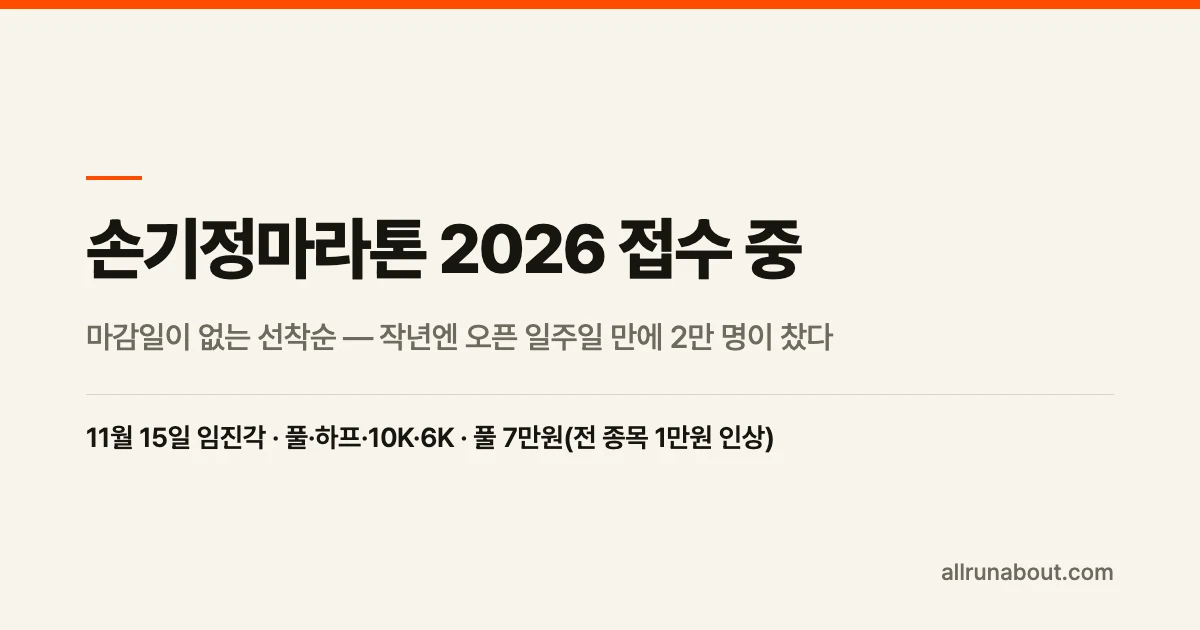
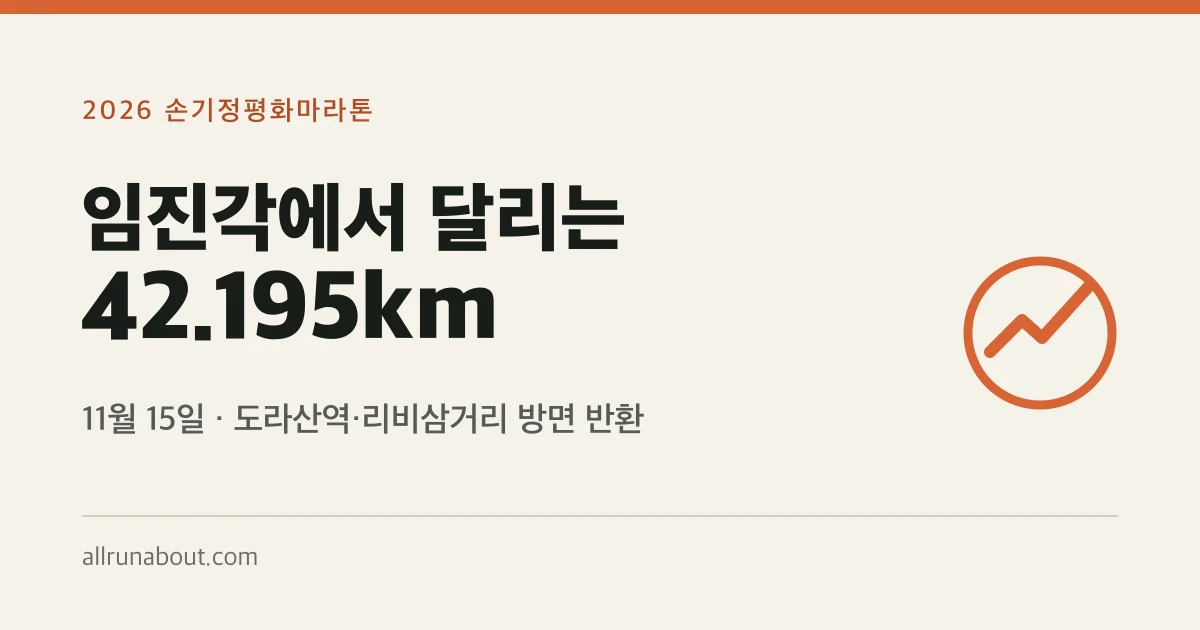
feat(blog): publish Daegu New Year race and refresh Sohn guide

diff --git a/src/lib/data/blog/posts/2026-06.ts b/src/lib/data/blog/posts/2026-06.ts
@@ -2196,23 +2196,19 @@ export const posts_2026_06: BlogPost[] = [
   {
     id: 'sonkeechung-peace-marathon-2026',
     slug: 'sonkeechung-peace-marathon-2026',
-    title: '손기정마라톤 2026 접수 진행 중 — 마감일 없는 선착순, 작년엔 일주일 만에 2만 명 | 임진각 이전·6km 신설·참가비 총정리',
-    description:
-      '2026 손기정평화마라톤(손기정 마라톤) 접수가 8월 9일(일) 오전 9시에 열려 지금도 진행 중입니다 — 마감일이 따로 없는 선착순이라 정원이 차는 순간 끝나고, 2025년엔 오픈 일주일 안에 약 2만 명이 찼습니다. 신청 후 24시간 안에 결제하지 않으면 내역이 삭제되는 점도 함정입니다. 대회는 11월 15일(일) 오전 10시 출발이고, 대회장이 고양 제2자유로에서 임진각(파주)으로 이전했습니다. 6km가 신설돼 4개 종목이 됐고 참가비는 전 종목 1만원 인상(풀 7만·하프 6.5만·10K 6만·6K 5만)됐습니다.',
+    title: '2026 손기정평화마라톤 11월 15일 임진각 출발 | 풀코스 경로·참가비·2차 접수 마감',
+    description: '2026 손기정평화마라톤은 11월 15일 임진각에서 출발합니다. 2차 접수는 11월 2일 오후 5시까지이며 조기 마감될 수 있습니다. 풀코스의 도라산역·리비삼거리 방면 두 반환 구간, 참가비, 제한시간과 3D 코스 미리보기를 정리했습니다.',
     thumbnail: '/images/blog/sonkeechung-peace-marathon-2026.webp',
     author: '산초 에디터',
     publishedAt: '2026-06-13',
-    updatedAt: '2026-10-20',
+    updatedAt: '2026-11-02',
     category: 'news' as const,
-    readingTime: 8,
-    tags: ['손기정평화마라톤', '손기정 마라톤', '손기정마라톤', '임진각 마라톤', '파주 마라톤', '제2자유로', '평화마라톤', '고양 마라톤', '가을 마라톤', '11월 마라톤', '풀코스 마라톤', '손기정'],
+    readingTime: 5,
+    tags: ['손기정평화마라톤', '손기정 마라톤', '손기정마라톤', '임진각 마라톤', '파주 마라톤', '평화마라톤', '11월 마라톤', '풀코스 마라톤', '손기정'],
     event: {
       name: '2026 손기정평화마라톤 (제22회)',
       startDate: '2026-11-15T10:00:00+09:00',
-      location: {
-        name: '임진각',
-        address: '경기도 파주시',
-      },
+      location: { name: '임진각', address: '경기도 파주시' },
       organizer: '손기정기념재단·스포티비뉴스',
       url: 'https://www.sonkeechungrun.com/',
       offers: [
@@ -2223,135 +2219,51 @@ export const posts_2026_06: BlogPost[] = [
       ],
     },
     faqs: [
-      { question: '2026 손기정평화마라톤은 언제 열리나요?', answer: '2026년 11월 15일(일)로 확정됐습니다. 오전 9시 집결, 10시 출발입니다(공식 대회요강 기준, 2026년 10월 20일 확인). 2025년 대회는 11월 16일이었습니다.' },
-      { question: '대회 장소가 임진각으로 바뀌었나요?', answer: '네. 2025년까지는 고양종합운동장에서 출발해 제2자유로를 달렸지만, 2026 대회요강은 대회장을 임진각(경기 파주)으로 공지했습니다. 2025년 대회 때 "2026년은 임진각에서 열어, 임진각~개성을 달리는 남북평화마라톤으로 발전하는 출발점으로 삼겠다"고 예고된 이전입니다.' },
-      { question: '접수는 언제 시작하나요?', answer: '2026년 8월 9일(일) 오전 9시에 이미 열렸습니다. 공식 대회요강에 "8월 9일 09:00 ~ 선착순 마감"으로 공지돼 있어 마감 날짜가 따로 없고, 정원이 차면 그대로 끝납니다. 2025년에는 9월 13일 오후 4시에 열려 약 2만 명 정원이 일주일 안에 찼습니다. 접수 후 24시간 내 미결제 시 신청이 자동 삭제되니 결제까지 한 번에 끝내세요.' },
-      { question: '종목과 참가비는 어떻게 되나요?', answer: '2026년부터 풀코스·하프·10km에 6km가 신설돼 4개 종목입니다. 참가비는 풀 70,000원, 하프 65,000원, 10km 60,000원, 6km 50,000원으로 전 종목이 2025년보다 1만원 올랐습니다. 제한시간은 풀 5시간, 하프 3시간, 10km 1시간 30분, 6km 1시간입니다.' },
-      { question: '제2자유로는 이제 못 달리나요?', answer: '2026 코스 상세는 공식 홈페이지에서 아직 "준비중"입니다. 대회장이 임진각으로 옮겨진 만큼 2025년까지의 고양 제2자유로 코스와는 달라질 가능성이 높지만, 확정 코스는 공식 공개를 기다려야 합니다. 공개되면 이 글을 갱신하겠습니다.' },
-      { question: '대회장까지 어떻게 가나요?', answer: '공식 교통·주차 안내가 아직 게시되지 않았습니다. 임진각 일대는 대회일 혼잡이 예상되니 공식 안내가 뜨면 확인하세요. 배번·기념품·칩은 11월 9일 우체국 택배로 사전 발송되므로 당일 현장 수령 부담은 적습니다.' },
+      { question: '2026 손기정평화마라톤은 언제 어디서 열리나요?', answer: '11월 15일(일) 임진각 평화누리공원 민통선 일대에서 열립니다. 오전 9시 집결, 10시 출발입니다.' },
+      { question: '2차 접수는 언제까지인가요?', answer: '공식 요강의 2차 접수 기간은 10월 28일 오전 9시부터 11월 2일 오후 5시까지입니다. 접수와 결제를 완료한 사람을 선착순으로 정하고, 정원 도달 시 일찍 끝날 수 있습니다. 이후 추가 접수 여부는 공식 홈페이지에서 확인하세요.' },
+      { question: '풀코스 경로가 공개됐나요?', answer: '네. 공식 풀코스 안내는 임진각에서 출발해 마정교차로·통일대교를 지나 도라산역 방면에서 1차 반환하고, 리비삼거리 방면에서 2차 반환한 뒤 임진각으로 돌아오는 경로를 제시합니다. 당일 코스는 바뀔 수 있습니다.' },
+      { question: '참가비와 제한시간은 얼마인가요?', answer: '풀코스 70,000원·5시간, 하프 65,000원·3시간, 10km 60,000원·1시간 30분, 6km 슬로우런 50,000원·1시간입니다.' },
     ],
     content: `
 <div class="tldr">
   <span class="tldr-label">3줄 요약</span>
   <ul>
-    <li><strong>2026 제22회가 확정됐습니다 — 11월 15일(일) 오전 10시 출발, 대회장은 임진각(파주)</strong>. 2025년까지의 고양 제2자유로에서 옮겨, "임진각~개성 남북평화마라톤"으로 발전시키겠다는 구상의 첫걸음입니다.</li>
-    <li><strong>6km 종목 신설로 4개 종목</strong>(풀·하프·10km·6km), 참가비는 전 종목 1만원 인상(풀 7만·하프 6.5만·10K 6만·6K 5만). 배번·기념품은 11/9 우체국 택배 사전 발송입니다.</li>
-    <li><strong>접수가 8월 9일(일) 오전 9시 열렸습니다 — 마감일 없는 선착순</strong>. 2025년엔 9/13 오픈 후 약 2만 명이 일주일 만에 찬 대회라, 종목이 정해졌다면 미루지 않는 편이 안전합니다.</li>
+    <li><strong>11월 15일(일) 오전 10시, 임진각 출발.</strong> 풀·하프·10km·6km 슬로우런 네 종목입니다.</li>
+    <li><strong>2차 접수는 11월 2일 오후 5시까지.</strong> 결제 완료 순서로 선착순이며 정원이 차면 일찍 마감될 수 있습니다.</li>
+    <li><strong>풀코스 경로가 공개됐습니다.</strong> 도라산역 방면과 리비삼거리 방면에서 두 번 반환합니다. <a href="/marathon/sonkeechung-peace-marathon-2026/preview">3D 코스 미리보기</a>에서 구간 흐름을 살펴볼 수 있습니다.</li>
   </ul>
 </div>
 
-<div class="callout warning">
-  <span class="callout-icon">📢</span>
-  <div class="callout-body">
-    <p class="callout-title">8/10 갱신 — 접수 시작됨</p>
-    <p>공식 대회요강의 접수기간이 <strong>"8월 9일 09:00 ~ 선착순 마감"</strong>으로 확정 게시됐습니다(2026-08-10 확인). 예고대로 작년(9/13)보다 <strong>한 달가량 빨라졌고</strong>, 마감 날짜가 따로 없어 정원이 차는 순간 끝납니다. 신청은 <a href="https://www.sonkeechungrun.com/entryperson" target="_blank" rel="noopener">공식 개인참가신청 페이지</a>에서 하고, <strong>접수 후 24시간 안에 결제</strong>하지 않으면 신청내역이 삭제됩니다.</p>
-  </div>
-</div>
+<p>올해 손기정평화마라톤을 준비한다면 출발 장소와 코스를 다시 봐야 합니다. 2025년까지 달렸던 고양 제2자유로에서 <strong>파주 임진각</strong>으로 대회장이 바뀌었고, 공식 풀코스 경로도 10월에 공개됐습니다.</p>
 
-<div class="callout info">
-  <span class="callout-icon">🕊</span>
-  <div class="callout-body">
-    <p class="callout-title">기록보다 의미가 먼저인 대회</p>
-    <p>1936년 베를린올림픽 마라톤에서 금메달을 딴 <strong>손기정 선생</strong>. 일장기를 달고 달려야 했던 그의 이야기를 기억하며, 후배 러너들이 그의 이름으로 달리는 대회입니다. 평소 차가 달리는 길을 사람이 달리고, 북녘으로 뻗은 도로를 향해 <strong>평화와 통일</strong>의 메시지를 담아 달리죠. 기록도 노릴 수 있지만, 의미를 찾는 러너에게 특별한 대회입니다.</p>
-  </div>
-</div>
-
-<h2>어떤 대회인가 — 손기정, 그리고 평화</h2>
-
-<p>손기정평화마라톤은 <strong>손기정기념재단</strong>이 주최하는 가을 마라톤으로, 2005년 제1회를 시작해 2026년이면 제22회가 됩니다. 단순한 레이스가 아니라 <strong>손기정 선생의 항일·애국 정신을 기리고 한반도 평화·통일을 염원</strong>하는 테마가 핵심이에요. 2025년 슬로건이 광복 80주년과 맞물린 "광복은 자유다"였던 것도 같은 맥락입니다.</p>
-
-<p>국내 마스터즈 마라톤 중에서도 규모가 큰 편으로, <strong>약 2만 명</strong>이 참가합니다. 그만큼 인기가 높아 접수가 빠르게 마감되는 대회이기도 합니다.</p>
-
-<h2>2026, 임진각으로 — 무엇이 바뀌나</h2>
-
+<h2>접수와 참가비</h2>
+<p>공식 대회요강에 따르면 1차 접수는 10월 27일 끝났고, <strong>2차 접수는 10월 28일 오전 9시부터 11월 2일 오후 5시까지</strong>입니다. 접수와 결제를 모두 마친 사람을 선착순으로 세며, 정원이 차면 예정 시각보다 빨리 끝날 수 있습니다. 접수 여부와 이후 추가 모집은 <a href="https://www.sonkeechungrun.com/info1" target="_blank" rel="noopener noreferrer">공식 대회요강</a>에서 확인하세요.</p>
 <table>
-  <thead>
-    <tr><th>항목</th><th>2025 (제21회)</th><th>2026 (제22회, 확정)</th></tr>
-  </thead>
+  <thead><tr><th>종목</th><th>참가비</th><th>제한시간</th></tr></thead>
   <tbody>
-    <tr><td>대회일</td><td>11/16(일)</td><td><strong>11/15(일)</strong> 집결 9:00 · 출발 10:00</td></tr>
-    <tr><td>대회장</td><td>고양종합운동장 (제2자유로)</td><td><strong>임진각 (경기 파주)</strong></td></tr>
-    <tr><td>종목</td><td>풀·하프·10K</td><td>풀·하프·10K + <strong>6km 신설</strong></td></tr>
-    <tr><td>참가비</td><td>6만 / 5.5만 / 5만</td><td><strong>7만 / 6.5만 / 6만 / 5만(6K)</strong></td></tr>
-    <tr><td>접수</td><td>9/13 16시 오픈 → 일주일 내 마감</td><td><strong>8월 중 공지 예정</strong></td></tr>
+    <tr><td>풀코스</td><td>70,000원</td><td>5시간</td></tr>
+    <tr><td>하프</td><td>65,000원</td><td>3시간</td></tr>
+    <tr><td>10km</td><td>60,000원</td><td>1시간 30분</td></tr>
+    <tr><td>6km 슬로우런</td><td>50,000원</td><td>1시간</td></tr>
   </tbody>
 </table>
 
-<p>가장 큰 변화는 장소입니다. 2025년 대회 당시 주최 측은 <strong>"2026년 대회는 임진각에서 열어, 임진각~개성을 달리는 손기정남북평화마라톤으로 발전하는 출발점으로 삼겠다"</strong>고 예고했고, 실제로 2026 대회요강이 대회장을 임진각으로 공지하며 그 구상이 현실이 됐습니다. 분단의 상징이자 민간인이 갈 수 있는 북녘과 가장 가까운 땅에서, 일장기를 달고 달려야 했던 마라토너의 이름으로 달리는 셈이라 대회의 평화 서사는 오히려 더 짙어졌습니다.</p>
-
-<h2>그럼 제2자유로는? — 2025년까지의 정체성</h2>
-
-<p>지금까지 이 대회의 정체성은 <strong>제2자유로</strong>에 있었습니다. 제2자유로는 평소 보행·자전거가 금지된 <strong>자동차 전용도로</strong>인데, 손기정평화마라톤은 대회 당일에만 이 도로를 러너에게 통째로 내어주는 <strong>국내 유일 대회</strong>였어요.</p>
-
+<h2>풀코스: 북쪽으로 갔다가 두 번 반환</h2>
+<p><a href="https://www.sonkeechungrun.com/full" target="_blank" rel="noopener noreferrer">공식 풀코스 안내</a>의 순서는 <strong>임진각 → 마정교차로 → 통일대교 → 도라산역 방면 1차 반환 → 마정교차로 → 여우고개사거리 → 37번국도·리비삼거리 방면 2차 반환 → 37번국도 맞은편 도로 → 여우고개사거리 → 마정교차로 → 임진각</strong>입니다. 주최 측은 코스가 변경될 수 있다고 밝힙니다.</p>
+<p>지도에서 반환점을 두 개 먼저 찾아두면 레이스 흐름을 이해하기 쉽습니다. 첫 반환 뒤 마정교차로를 다시 지나고, 여우고개사거리에서 37번국도 구간으로 들어갑니다. 코스도에는 구간별 공식 거리와 고도 수치가 없으므로 지도의 산 그림만 보고 오르막 길이를 단정하지 마세요.</p>
 <div class="callout info">
-  <span class="callout-icon">🛣</span>
+  <span class="callout-icon">🗺</span>
   <div class="callout-body">
-    <p class="callout-title">2026 코스는 아직 "준비중"</p>
-    <p>공식 홈페이지의 풀·하프·10km 코스 페이지는 현재 <strong>준비중</strong>입니다. 임진각 출발로 바뀐 만큼 제2자유로 왕복 코스가 유지될지, 자유로·평화누리 일대의 새 코스가 될지는 공식 공개를 기다려야 합니다. 코스가 공개되면 이 글을 갱신하겠습니다. 아래 제2자유로 설명은 2025년까지의 코스 기준입니다.</p>
+    <p class="callout-title">달리기 전에 코스를 살펴보고 싶다면</p>
+    <p><a href="/marathon/sonkeechung-peace-marathon-2026/preview">손기정평화마라톤 3D 코스 미리보기</a>에서 반환 지점, 참고 고도, 목표 시간별 페이스와 보급 예시를 볼 수 있습니다. 지형·거리 수치는 개인 제작 GPX를 바탕으로 한 참고값입니다. 실제 반환 위치와 차로는 대회 당일 안내를 따르세요.</p>
   </div>
 </div>
 
-<ul>
-  <li><strong>직선·평지 기록 코스</strong> — 신호도, 급격한 꺾임도 없는 곧게 뻗은 도로라 페이스를 일정하게 유지하기 좋습니다. PB(개인 최고기록)를 노리는 러너에게 유리한 코스죠.</li>
-  <li><strong>고양종합운동장 출발 왕복</strong> — 풀코스는 현천IC·능곡IC를 반환점으로 도는 구조입니다. 25km 부근이 페이스 관리의 분기점입니다.</li>
-  <li><strong>평화·통일의 상징</strong> — 북한 방향으로 뻗은 도로를 달린다는 점에서, 이 코스 자체가 대회의 메시지를 담고 있습니다.</li>
-</ul>
+<h2>왜 손기정평화마라톤인가</h2>
+<p>1936년 베를린올림픽 마라톤 우승자 손기정 선생의 이름을 기억하며 달리는 대회입니다. 올해 대회일인 <strong>11월 15일은 선생의 기일</strong>이기도 합니다. 임진각과 민통선 일대를 달리는 새 코스는 대회의 평화 메시지를 러너가 직접 체감할 장소입니다.</p>
+<p>올해 처음 추가된 6km 슬로우런을 포함해 네 종목이 열립니다. 레이스 전에는 <a href="/marathon/sonkeechung-peace-marathon-2026">대회 캘린더 안내</a>와 공식 교통·참가자 공지를 다시 확인하세요.</p>
 
-<p>단, 11월 개최라 <strong>기온이 낮고 강변 바람이 변수</strong>입니다. 출발 전 체온 유지와 바람 대비(아암슬리브·바람막이)를 챙기는 게 좋습니다.</p>
-
-<h2>종목·참가비·제한시간 (2026 확정)</h2>
-
-<table>
-  <thead>
-    <tr><th>종목</th><th>참가비</th><th>제한시간</th><th>참가자격</th></tr>
-  </thead>
-  <tbody>
-    <tr><td><strong>풀코스</strong></td><td>70,000원</td><td>5시간</td><td>만 18세 이상</td></tr>
-    <tr><td><strong>하프</strong></td><td>65,000원</td><td>3시간</td><td>제한 없음</td></tr>
-    <tr><td><strong>10km</strong></td><td>60,000원</td><td>1시간 30분</td><td>제한 없음</td></tr>
-    <tr><td><strong>6km</strong> <em>(신설)</em></td><td>50,000원</td><td>1시간</td><td>제한 없음</td></tr>
-  </tbody>
-</table>
-
-<p>전 종목이 2025년보다 1만원씩 올랐고, 가족·입문 러너를 겨냥한 <strong>6km가 새로 생겼습니다</strong>. 출발은 오전 10시(집결 9:00), 결제는 신용카드·가상계좌이며, 대한육상연맹 2024~2026 등록 엘리트 선수는 시상에서 제외됩니다.</p>
-
-<h2>접수 — 8월 9일 오픈, 마감일 없는 선착순</h2>
-
-<p>손기정평화마라톤의 가장 큰 주의점은 <strong>속도</strong>입니다. 2025년에는 <strong>9월 13일 오후 4시 접수 오픈 → 약 2만 명 정원이 일주일 안에 마감</strong>됐어요. 2026년은 예고대로 앞당겨져 <strong>8월 9일(일) 오전 9시</strong>에 열렸고, 공식 대회요강에 마감일 대신 <strong>"선착순 마감"</strong>이라고만 적혀 있습니다. 달력을 보며 기다릴 마감일이 없다는 뜻이라, 뛸 종목이 정해졌다면 지금 넣는 게 안전합니다.</p>
-
-<p><strong>접수 전 체크리스트</strong>:</p>
-
-<ul>
-  <li><strong>레이스플랜 계정부터</strong> — 접수처인 공식 홈페이지(<a href="https://www.sonkeechungrun.com/" target="_blank" rel="noopener">sonkeechungrun.com</a>)는 레이스플랜 계정으로 로그인합니다. 계정이 없다면 가입이 첫 단계입니다.</li>
-  <li><strong>필수 입력값 준비</strong> — 성명·생년월일·휴대폰·코스·기념품 사이즈·주소를 요구합니다. 기념품 사이즈를 미리 정해두면 접수가 빨라집니다.</li>
-  <li><strong>결제까지 한 번에</strong> — 접수 후 <strong>24시간 내 미결제 시 신청 내역이 자동 삭제</strong>됩니다. 신용카드나 가상계좌로 그 자리에서 끝내세요.</li>
-  <li><strong>단체(2인 이상)도 홈페이지 직접 접수</strong> — 별도 단체 양식은 접수 종료 후에만 제공됩니다.</li>
-</ul>
-
-<div class="callout info">
-  <span class="callout-icon">📅</span>
-  <div class="callout-body">
-    <p class="callout-title">코스가 공개되면 이 글을 갱신합니다</p>
-    <p>접수는 열렸지만 <strong>코스 상세는 여전히 공식 "준비중"</strong>입니다(2026-08-10 확인). 코스와 교통안내가 공개되는 대로 이 글과 <a href="/marathon/sonkeechung-peace-marathon-2026">손기정평화마라톤 캘린더 페이지</a>를 갱신하겠습니다. 최신 확인은 <a href="https://www.sonkeechungrun.com/" target="_blank" rel="noopener">공식 홈페이지</a> 공지사항에서 하세요.</p>
-  </div>
-</div>
-
-<h2>교통·준비</h2>
-
-<ul>
-  <li><strong>교통·주차 안내는 준비중</strong> — 임진각으로 장소가 바뀐 만큼 공식 교통안내·교통통제 공지를 기다려야 합니다. 임진각 평화누리 일대는 대회일 혼잡이 예상되니 공지가 뜨면 확인하세요.</li>
-  <li><strong>배번·기념품은 사전 택배</strong> — 마라톤 패키지(배번·칩·기념품)가 <strong>11월 9일 우체국 택배로 발송</strong>됩니다. 당일 현장 수령 줄을 설 필요가 없습니다.</li>
-  <li><strong>11월 추위 대비</strong> — 출발 대기 시간이 길 수 있어 버리는 옷·우의로 체온을 유지하세요. 임진강변 바람이 변수입니다.</li>
-</ul>
-
-<h2>한 걸음 더</h2>
-
-<ul>
-  <li>🗓 가을 대회 일정 한눈에 → <a href="/marathon">마라톤 캘린더</a> · <a href="/blog/2026-second-half-marathon-schedule-korea">2026 하반기 마라톤 완전정복</a></li>
-  <li>🏅 손기정과 한국 마라톤의 뿌리 → <a href="/blog/seoul-marathon-100-years-history-1931-2030">서울마라톤 100년의 길(손기정·일장기 말소사건)</a></li>
-</ul>
-
-<p style="font-size:0.85em;color:#64748b;margin-top:2em;">※ 2026-07-29 갱신: 대회일(11/15)·장소(임진각)·종목(6km 신설)·참가비·제한시간·결제 방식·택배 발송일은 손기정평화마라톤 공식 홈페이지 대회요강(sonkeechungrun.com, 2026-07-29 확인) 기준 확정 정보입니다. 임진각 이전 배경("남북평화마라톤 발전 구상")은 2025-09 스포티비뉴스·쿠키뉴스 보도 기준. 2026 코스 상세와 접수 오픈 일시는 공식 "준비중/8월 중 공지 예정" 상태로, 공개 시 갱신합니다. 원문 발행 2026-06-13.</p>
+<p><small>출처: <a href="https://www.sonkeechungrun.com/info1" target="_blank" rel="noopener noreferrer">손기정평화마라톤 공식 대회요강</a>(일시·접수·참가비·제한시간), <a href="https://www.sonkeechungrun.com/full" target="_blank" rel="noopener noreferrer">공식 풀코스</a>(경유지·변경 가능성). 2026년 11월 2일 확인. 원문 2026년 6월 13일 발행.</small></p>
 `,
   },
   {

diff --git a/src/lib/data/blog/posts/2026-11.ts b/src/lib/data/blog/posts/2026-11.ts
@@ -2,6 +2,76 @@ import type { BlogPost } from '@/types/blog';
 
 export const posts_2026_11: BlogPost[] = [
   {
+    id: 'daegu-new-year-naked-marathon-2027',
+    slug: 'daegu-new-year-naked-marathon-2027',
+    title: '2027 대구 전국새해 알몸마라톤 접수 | 1월 3일 5km·10km, 복장 규정과 참가비',
+    description: '제19회 전국새해 알몸마라톤이 2027년 1월 3일 대구육상진흥센터 앞에서 열립니다. 10km 5만원, 5km 일반 4만원·학생 2만원. 12월 10일까지 입금 순 선착순 2,000명 접수이며 시상 대상 복장 규정과 현장 수령 일정을 확인하세요.',
+    thumbnail: '/images/blog/daegu-new-year-naked-marathon-2027.webp',
+    author: '산초 에디터',
+    publishedAt: '2026-11-02',
+    category: 'news',
+    readingTime: 4,
+    tags: ['전국새해 알몸마라톤', '대구 알몸마라톤', '2027 마라톤', '새해 마라톤', '대구 러닝 대회', '10km 대회', '5km 대회'],
+    event: {
+      name: '제19회 전국새해 알몸마라톤대회',
+      startDate: '2027-01-03T10:00:00+09:00',
+      location: { name: '대구육상진흥센터 앞', address: '대구광역시 수성구 미술관로 88' },
+      organizer: '대구광역시육상연맹',
+      url: 'https://r.dgrunner.co.kr:9023/',
+      offers: [
+        { name: '10km', priceKrw: 50000, url: 'https://r.dgrunner.co.kr:9023/' },
+        { name: '5km 일반', priceKrw: 40000, url: 'https://r.dgrunner.co.kr:9023/' },
+        { name: '5km 학생', priceKrw: 20000, url: 'https://r.dgrunner.co.kr:9023/' },
+      ],
+    },
+    faqs: [
+      { question: '2027 전국새해 알몸마라톤은 언제 열리나요?', answer: '2027년 1월 3일(일) 대구육상진흥센터 앞에서 열립니다. 10km는 오전 10시, 5km 학생부는 10시 5분, 5km 일반부는 10시 10분 출발입니다.' },
+      { question: '접수 마감일과 참가비는 얼마인가요?', answer: '공식 요강에는 2026년 10월 28일부터 12월 10일까지 선착순 2,000명으로 안내돼 있습니다. 종목별 입금 순서이며, 10km 50,000원·5km 일반 40,000원·5km 학생 20,000원입니다. 정원이 차면 접수 기간 중에도 끝날 수 있습니다.' },
+      { question: '정말 알몸으로 달려야 하나요?', answer: '공식 요강의 경기 복장 규정은 남성 상의 탈의, 여성 탑 복장, 남녀 모두 반바지입니다. 복장 위반 시 입상에서 제외된다고 적혀 있습니다. 시상에 참가하지 않는 러너에게도 같은 규정을 적용하는지는 2027년 요강에 명시돼 있지 않아 주최 측에 확인해야 합니다.' },
+      { question: '배번호와 기념품은 어디서 받나요?', answer: '대회 당일 오전 7시 30분부터 9시 20분까지 현장에서 배번호와 기념품을 배부한다고 공식 일정표에 적혀 있습니다.' },
+    ],
+    content: `
+<div class="tldr">
+  <span class="tldr-label">3줄 요약</span>
+  <ul>
+    <li><strong>2027년 1월 3일(일) 대구에서 5km·10km를 달립니다.</strong> 출발 장소는 대구육상진흥센터 앞입니다.</li>
+    <li><strong>접수는 12월 10일까지, 입금 순 선착순 2,000명입니다.</strong> 10km 5만원, 5km 일반 4만원·학생 2만원입니다.</li>
+    <li><strong>시상 대상 복장 규정을 확인하세요.</strong> 남성 상의 탈의·여성 탑·남녀 반바지이며, 위반하면 입상에서 제외됩니다.</li>
+  </ul>
+</div>
+
+<p>새해 첫 대회를 찾는다면 날짜부터 눈에 들어옵니다. <strong>제19회 전국새해 알몸마라톤</strong>은 2027년 1월 3일 일요일, 대구육상진흥센터 앞에서 열립니다. 이름 때문에 망설여질 수 있지만, 공식 요강의 복장 규정은 말 그대로 옷을 전부 벗는 방식이 아닙니다.</p>
+
+<h2>종목·참가비·출발 시각</h2>
+<table>
+  <thead><tr><th>종목</th><th>참가비</th><th>정원</th><th>출발</th></tr></thead>
+  <tbody>
+    <tr><td>10km</td><td>50,000원</td><td>1,200명</td><td>10:00</td></tr>
+    <tr><td>5km 일반</td><td>40,000원</td><td>700명</td><td>10:10</td></tr>
+    <tr><td>5km 학생</td><td>20,000원</td><td>100명</td><td>10:05</td></tr>
+  </tbody>
+</table>
+<p>제한시간은 10km 1시간 30분, 5km 1시간입니다. 세 종목 모두 기록칩과 모바일 기록증이 안내돼 있습니다. 배번호와 기념티는 <strong>대회 당일 07:30~09:20 현장 배부</strong>이므로 출발 직전에 도착하면 수령이 빠듯할 수 있습니다.</p>
+
+<h2>접수는 입금 순 선착순</h2>
+<p><a href="https://r.dgrunner.co.kr:9023/run/9000.asp?T=1" target="_blank" rel="noopener noreferrer">공식 대회요강</a>의 접수 기간은 <strong>2026년 10월 28일~12월 10일</strong>입니다. 전체 2,000명을 종목별 입금 순서로 받습니다. 신청만 하고 결제를 미루면 자리가 확정되지 않으니, 신청 뒤 입금·신청 확인까지 살펴보세요. 현재 남은 자리는 공식 페이지에서 확인해야 합니다.</p>
+<p>환불은 접수 마감 전 신청하면 참가비의 10%를 공제하고, 마감 뒤에는 불가하다고 요강에 적혀 있습니다. 날씨나 재해 때문에 행사가 연기·취소될 때의 규정도 있으니 신청 전 원문을 읽어보는 편이 좋습니다.</p>
+
+<h2>‘알몸’ 복장은 어디까지인가</h2>
+<p>공식 경기 규정에는 <strong>남성 상의 탈의, 여성 탑 복장, 남녀 모두 반바지</strong>라고 쓰여 있습니다. 복장을 지키지 않으면 <strong>입상에서 제외</strong>한다는 조건입니다. 이 문구만으로 시상에 도전하지 않는 참가자의 자유복장 가능 여부까지 단정할 수는 없습니다. 자신의 복장에 맞춰 참가하려면 신청 전에 주최 측에 확인하세요.</p>
+<p>1월 초 야외 대회인 만큼 출발 전 대기 시간과 완주 직후 갈아입을 옷도 고려해야 합니다. 특히 배번호를 현장에서 받아야 하므로 이동 계획에 수령 시간을 넣어두세요.</p>
+
+<h2>신청 전 확인할 두 가지</h2>
+<ul>
+  <li><strong>정원:</strong> 공식 요강의 마감일은 12월 10일이지만, 입금 순 2,000명을 채우면 먼저 끝날 수 있습니다.</li>
+  <li><strong>코스:</strong> 공식 홈페이지의 <a href="https://r.dgrunner.co.kr:9023/run/9002.asp?T=1" target="_blank" rel="noopener noreferrer">10km 코스도</a>는 확인할 수 있습니다. 5km 세부 경로와 실제 고도는 이 글에서 확인하지 못했으므로 코스도만 보고 경사를 추정하지 마세요.</li>
+</ul>
+<p>다른 겨울 대회와 날짜를 비교하려면 <a href="/marathon">마라톤 캘린더</a>를 함께 보세요.</p>
+
+<p><small>출처: <a href="https://r.dgrunner.co.kr:9023/run/9000.asp?T=1" target="_blank" rel="noopener noreferrer">대구광역시육상연맹 제19회 전국새해 알몸마라톤 공식 대회요강</a>(일정·비용·정원·복장·환불·현장 배부), <a href="https://r.dgrunner.co.kr:9023/run/9002.asp?T=1" target="_blank" rel="noopener noreferrer">공식 10km 코스도</a>. 2026년 11월 2일 확인. 잔여 정원과 시상 비대상자의 복장 적용 여부는 확인되지 않았습니다.</small></p>
+`,
+  },
+  {
     id: 'asics-tenka-pack-korea-release-2026',
     slug: 'asics-tenka-pack-korea-release-2026',
     title: '아식스 텐카 팩 11월 2일 발매 | 슈퍼블라스트 3·메가블라스트 가격과 구매처',

diff --git a/src/lib/data/marathon/november.ts b/src/lib/data/marathon/november.ts
@@ -403,7 +403,8 @@ export const novemberEvents: MarathonEvent[] = [
     isMajor: true,
     website: 'https://www.sonkeechungrun.com',
     registrationStart: '2026-08-09',
-    registrationNote: '선착순 마감시까지 — 마감일 미고지 (접수 후 24시간 내 미결제 시 신청 삭제)',
+    registrationEnd: '2026-11-02',
+    registrationNote: '2차 접수는 11월 2일(월) 17:00까지. 접수와 결제 완료 순서로 선착순이며 정원 도달 시 조기 마감될 수 있습니다. 이후 추가 접수 여부는 공식 홈페이지에서 확인하세요(2026-11-02 공식 대회요강 확인).',
     raceKit: {
       items: [
         '스파이더 퍼포먼스 러닝 윈드 자켓(그레이, 85~110 — 베를린올림픽 우승 90주년 기념 아트워크)',
@@ -413,14 +414,14 @@ export const novemberEvents: MarathonEvent[] = [
       verifiedAt: '2026-10-20',
       images: [{ src: '/images/marathon/sonkeechung-peace-marathon-2026/kit-1.webp', alt: '2026 손기정평화마라톤 공식 기념품 — 스파이더 러닝 윈드 자켓' }],
     },
-    lastVerified: '2026-10-20',
+    lastVerified: '2026-11-02',
     description:
-      '8월 9일(일) 오전 9시에 접수가 열려 마감일 없이 선착순으로 받고 있습니다 — 2025년엔 오픈 일주일 안에 약 2만 명이 찼습니다. 신청 후 24시간 안에 결제하지 않으면 내역이 삭제됩니다. 환불 신청은 공식 유의사항 기준 10월 20일(화) 오후 5시까지이고, 접수 마감 이후에는 어떤 경우에도 환불되지 않습니다(2026-10-20 공식 유의사항 확인). 올해 가장 큰 변화는 대회장 이전으로, 고양 제2자유로에서 임진각 민통선 일대(파주)로 옮깁니다("임진각~개성 남북평화마라톤으로 발전하는 출발점" 구상). 6km 슬로우런이 신설돼 종목은 4개가 됐고(슬로우런협회 공동 운영), 참가비는 전 종목 1만원 인상됐습니다(풀 7만·하프 6.5만·10K 6만·6K 5만). 1936 베를린올림픽 금메달리스트 손기정 선생을 기리는 평화·통일 테마 대회로 2005년 제1회, 올해가 제22회입니다. 기념품·배번호 패키지는 11월 9~10일 우체국택배로 순차 발송되며 택배비는 주최측 부담입니다. 기념품 사이즈는 참가신청/조회에서 "수정·상세"로 직접 바꿀 수 있습니다. 코스 상세는 공식 준비중 — 2025년까지의 제2자유로 코스와 달라질 수 있습니다(공식 대회요강·유의사항 2026-08-31 확인).',
+      '11월 15일(일) 오전 10시 임진각 평화누리공원에서 출발하는 제22회 손기정평화마라톤입니다. 2차 접수는 10월 28일 오전 9시부터 11월 2일 오후 5시까지이며, 결제 완료 기준 선착순으로 정원이 차면 조기 마감될 수 있습니다. 올해 대회장은 고양 제2자유로에서 파주 임진각으로 옮겨졌습니다. 공식 풀코스는 임진각에서 마정교차로·통일대교를 지나 도라산역 방면에서 1차 반환하고, 여우고개사거리를 거쳐 37번국도 리비삼거리 방면에서 2차 반환한 뒤 임진각으로 돌아옵니다. 종목은 풀·하프·10km·6km 슬로우런이며 참가비는 각각 70,000원·65,000원·60,000원·50,000원입니다. 코스는 변경될 수 있으므로 대회 당일 안내를 확인하세요.',
     courseInfo: {
-      terrain: '평지',
+      terrain: '혼합',
       difficulty: '중급',
       courseDescription:
-        '임진각 민통선 일대 출발(2026년 이전 확정). 코스도·대회장·교통·교통통제 안내는 모두 공식 준비중이며, 2025년까지는 고양종합운동장 출발 제2자유로 왕복의 직선·평지 기록 코스였습니다. 급수와 보급은 5km 지점부터 2.5km마다 놓입니다. 집결이 오전 9시, 출발이 10시인데 공식은 8시 30분까지 도착을 요구합니다 — 물품보관소(무료)는 7시 30분부터 오후 3시까지 열립니다. 기록 방식이 두 갈래인 점을 알아두는 게 좋습니다: 개인 기록증은 출발선을 지난 순간부터 재는 넷타임인데, 시상 순위는 건타임으로 가립니다. 입상을 노린다면 앞줄에 서야 하고 완주가 목표면 서두를 이유가 없습니다. 출발·반환·골인 매트를 밟지 않으면 기록이 잡히지 않아 실격 처리되며, 반려동물·전동킥보드는 물론 유모차와 휠체어도 주로 진입이 금지됩니다. 11월 개최라 기온이 낮고 임진강변 바람이 변수인데 우천 시 우의는 지급되지 않아 개인 지참입니다.',
+        '공식 풀코스 경로: 임진각 → 마정교차로 → 통일대교 → 도라산역 방면 1차 반환 → 마정교차로 → 여우고개사거리 → 37번국도·리비삼거리 방면 2차 반환 → 맞은편 도로 → 여우고개사거리 → 마정교차로 → 임진각. 공식 코스도에는 구간별 거리·고도 수치가 없고, 코스는 변경될 수 있습니다. 참고 GPX 지형·목표별 페이스·보급 예시는 3D 코스 미리보기에서 볼 수 있습니다.',
     },
     raceInfo: {
       entryFees: [
@@ -436,7 +437,6 @@ export const novemberEvents: MarathonEvent[] = [
         { distance: '6K', hours: 1, minutes: 0 },
       ],
       aidInterval: '5km 지점부터 2.5km마다',
-      expectedParticipants: 20000,
       startTime: '10:00',
     },
   },

diff --git a/src/lib/data/marathon/january.ts b/src/lib/data/marathon/january.ts
@@ -2,6 +2,40 @@ import type { MarathonEvent } from '@/types/marathon';
 
 export const januaryEvents: MarathonEvent[] = [
   {
+    id: 'daegu-new-year-naked-marathon-2027',
+    name: '제19회 전국새해 알몸마라톤대회',
+    date: '2027-01-03',
+    month: '1월',
+    location: '대구육상진흥센터 앞 (대구 수성구)',
+    region: '대구',
+    distances: ['10K', '5K'],
+    status: '접수중',
+    isMajor: false,
+    website: 'https://r.dgrunner.co.kr:9023/',
+    registrationStart: '2026-10-28',
+    registrationEnd: '2026-12-10',
+    registrationNote: '입금 순 선착순 2,000명(10km 1,200명·5km 일반 700명·학생 100명). 정원을 채우면 12월 10일 전에 마감될 수 있습니다. 잔여 정원은 공식 홈페이지에서 확인하세요.',
+    lastVerified: '2026-11-02',
+    description: '2027년 1월 3일(일) 대구육상진흥센터 앞에서 열리는 새해 5km·10km 대회입니다. 10km는 오전 10시, 5km 학생부는 10시 5분, 5km 일반부는 10시 10분 출발합니다. 참가비는 각각 50,000원·20,000원·40,000원이고 배번호·기념품은 대회 당일 07:30~09:20 현장에서 받습니다. 공식 경기 복장 규정은 남성 상의 탈의, 여성 탑, 남녀 반바지이며 위반 시 입상에서 제외됩니다. 시상 비대상자의 자유복장 적용 여부는 주최 측에 확인하세요.',
+    raceInfo: {
+      entryFees: [
+        { distance: '10K', fee: 50000 },
+        { distance: '5K 일반', fee: 40000 },
+        { distance: '5K 학생', fee: 20000 },
+      ],
+      timeLimits: [
+        { distance: '10K', hours: 1, minutes: 30 },
+        { distance: '5K', hours: 1, minutes: 0 },
+      ],
+      startTime: '10:00',
+      expectedParticipants: 2000,
+    },
+    raceKit: {
+      items: ['배번호', '기록칩', '기념티', '모바일 기록증'],
+      verifiedAt: '2026-11-02',
+    },
+  },
+  {
     id: 'jeju-10km-marathon-2027',
     name: '2027 전마협 제주 10km 마라톤',
     date: '2027-01-24',

diff --git a/src/lib/data/blog/posts/2026-09.ts b/src/lib/data/blog/posts/2026-09.ts
@@ -6931,7 +6931,7 @@ export const posts_2026_09: BlogPost[] = [
   <li><a href="/marathon/gangnam-peace-marathon-2026">2026 강남국제평화마라톤</a> — 10/5(월) 대체공휴일 개최로 <strong>대회일이 지났습니다</strong>(참가비 3만원). 참가비 전액을 전쟁고아 지원에 기부하는 대회입니다</li>
   <li><a href="/marathon/buyeo-goodtrae-marathon-2026">부여 굿뜨래 마라톤</a> — 11/7(토), <strong>접수가 끝났습니다</strong>(10/1 마감 뒤 10/15 선착순 200명 추가 접수가 열렸다가 다시 마감, 공식 공지). 풀코스 신청에는 최근 1년 하프 2시간·풀 5시간 이내 기록증이 필요했습니다</li>
   <li><a href="/marathon/jeju-mandarin-marathon-2026">제주감귤마라톤</a> — 11/15(일), 접수는 <strong>7/20 선착순으로 이미 마감</strong>됐습니다(공식 공지, 요강상 기간은 9/11까지)</li>
-  <li><a href="/marathon/sonkeechung-peace-marathon-2026">손기정평화마라톤</a> — 11/15(일), 파주 임진각. 마감일은 미고지입니다</li>
+  <li><a href="/marathon/sonkeechung-peace-marathon-2026">손기정평화마라톤</a> — 11/15(일), 파주 임진각. 2차 접수는 11/2(월) 17시까지이며 결제 완료 순서로 선착순입니다(조기 마감 가능). 공식 풀코스 경로도 공개됐습니다</li>
 </ul>
 
 <p>대회 규모가 작으면 급수 간격·제한시간·기념품 구성이 대형 대회와 다릅니다. 전체 일정과 조건은 <a href="/marathon">마라톤 캘린더</a>에서 확인할 수 있습니다.</p>
